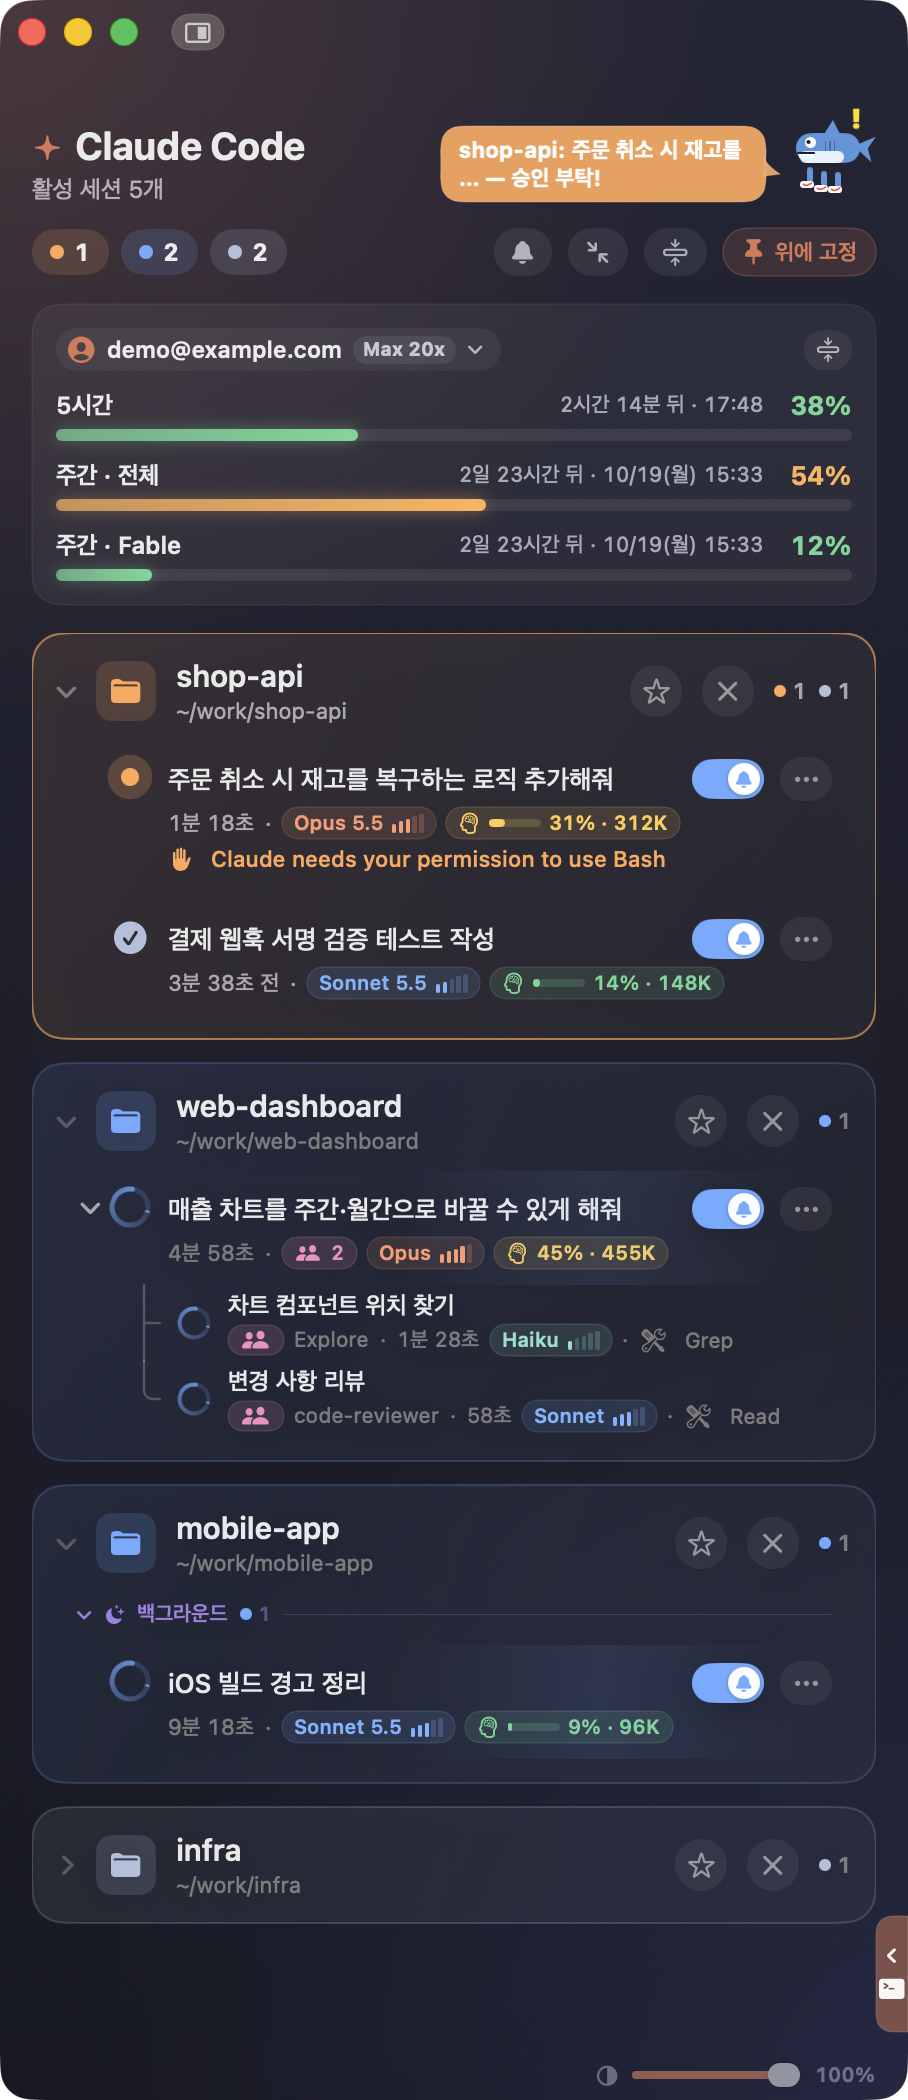
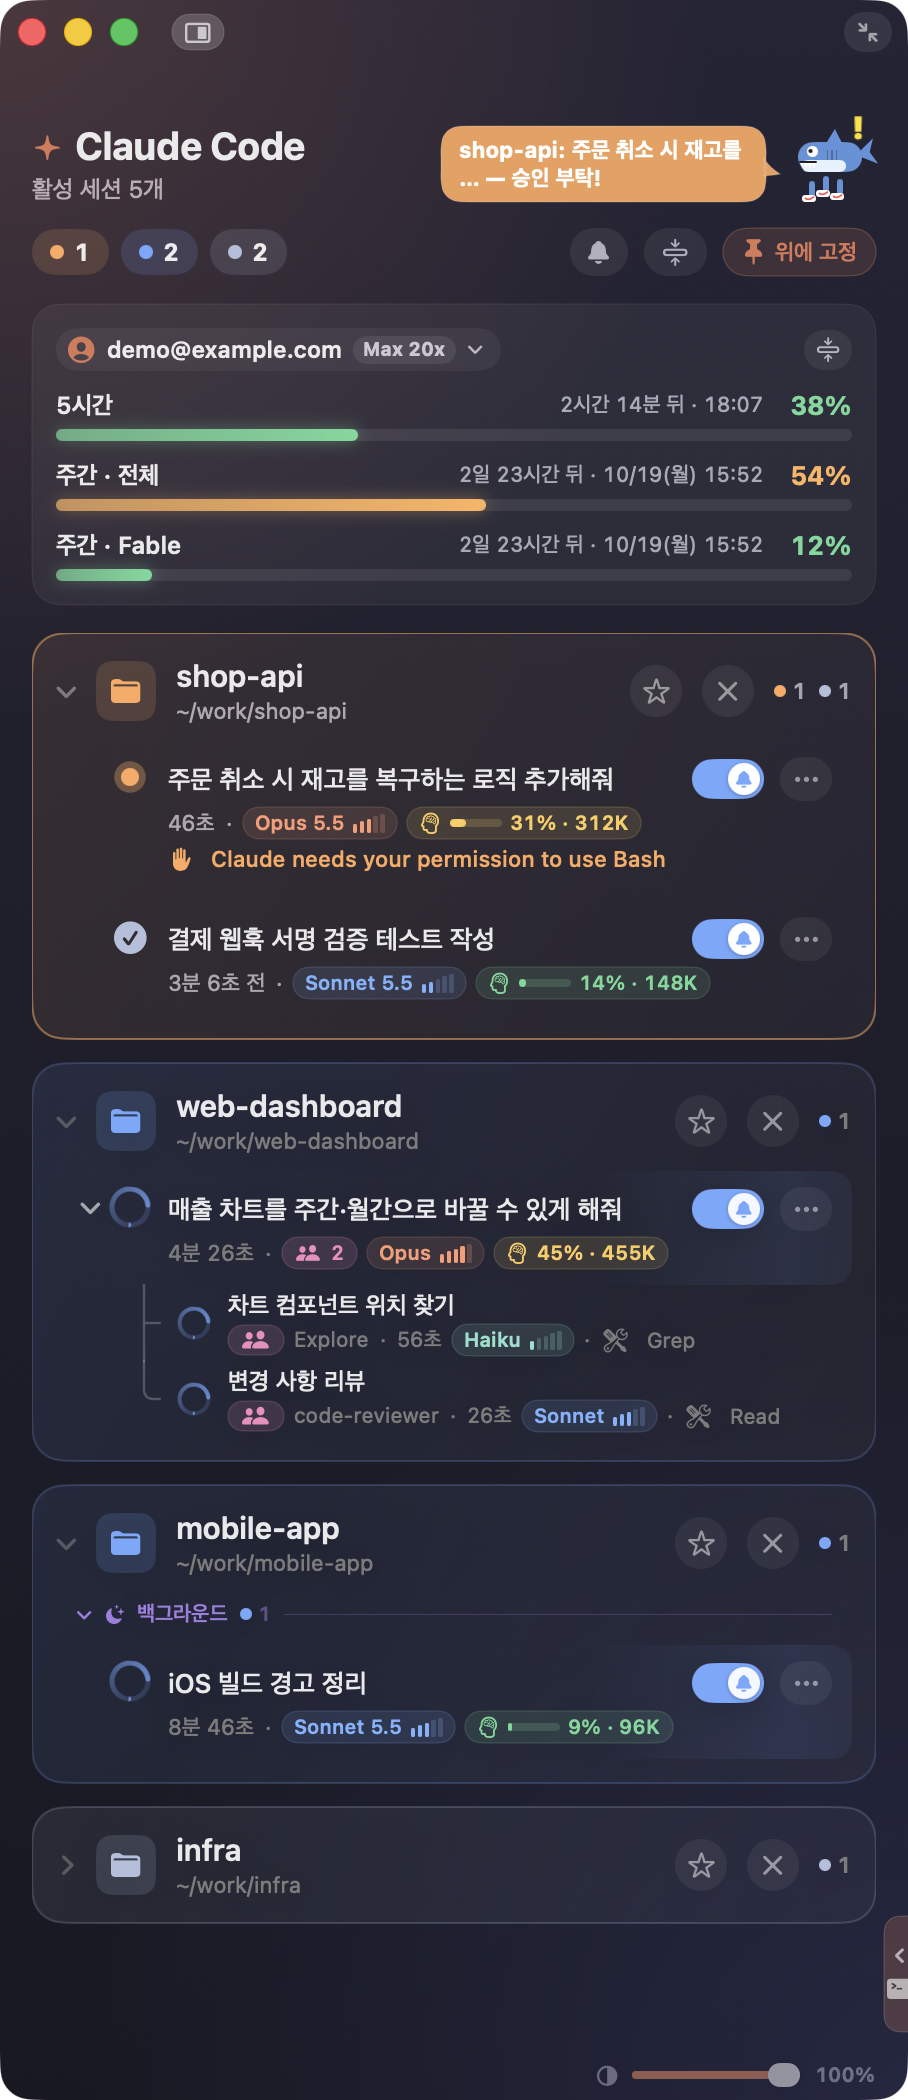
최대축소 단추를 제목 막대 오른쪽 위(미니의 ⤢ 자리)로 옮기기

diff --git a/ClaudeBoard.swift b/ClaudeBoard.swift
@@ -3528,7 +3528,6 @@ struct BoardView: View {
     @State private var tops = CardTopsBox()
     @State private var hiddenIds: [String] = []
     @State private var moreHover = false
-    @State private var miniHover = false
     // 창 크기 단계 — 중간에서는 카드를 접힌 한 줄로 보이고, 그 단계에서 눌러 펼친 카드만 따로 기억한다(저장한 접힘 상태는 그대로)
     @ObservedObject private var fit = BoardFit.shared
     @State private var mediumOpen: Set<String> = []
@@ -3614,18 +3613,6 @@ struct BoardView: View {
             }
             Spacer(minLength: 6)
             AllMuteButton(muted: store.allMuted) { store.setAllMuted(!store.allMuted) }
-            // 최대축소 — 창을 가장 작게 줄여 경로마다 한 줄로 본다. 미니의 제목 막대 ⤢ 로 원래 크기로 돌아온다
-            Button { enterMini(rows: store.groups.count) } label: {
-                Image(systemName: "arrow.down.right.and.arrow.up.left")
-                    .font(.system(size: 11, weight: .semibold))
-                    .foregroundStyle(miniHover ? .primary : .secondary)
-                    .padding(.horizontal, 8)
-                    .frame(minWidth: 28, minHeight: 24)
-                    .background(Capsule().fill(Color.white.opacity(miniHover ? 0.12 : 0.07)))
-            }
-            .buttonStyle(.plain)
-            .clickable($miniHover)
-            .help("최대축소 — 창을 가장 작게 줄이고 경로마다 한 줄로 봅니다")
             // 모두 접기 = 경로 카드를 다 접고 사용 한도를 간략(한 줄)으로, 모두 펼치기 = 다 펴고 상세로.
             // 중간 화면은 이미 카드가 접힌 한 줄·사용 한도가 한 줄이라 숨긴다
             let all = usageCompact && store.groups.allSatisfy { store.collapsed.contains($0.id) }
@@ -3970,7 +3957,6 @@ final class BoardFit: ObservableObject {
         guard t != tier else { return }
         tier = t
         UserDefaults.standard.set(t == .mini, forKey: "boardMini")   // 미니로 둔 채 끄면 다음에도 그 크기로 연다
-        miniTitlebar?.view.isHidden = t != .mini
     }
 }
 
@@ -3998,10 +3984,7 @@ func leaveMini() {
     snapRight()
 }
 
-// 미니에서만 보이는 제목 막대 오른쪽 — 상태별 세션 수와 원래 크기로 되돌리기 단추.
-// 오른쪽 액세서리는 컨트롤러의 isHidden 이 먹지 않아(2026-10-16 확인) 안의 뷰를 숨긴다
-var miniTitlebar: NSTitlebarAccessoryViewController?
-
+// 제목 막대 오른쪽 — 미니에서는 상태별 세션 수와 원래 크기로 되돌리기 단추, 전체·중간에서는 같은 자리에 최대축소 단추
 func addMiniTitlebar(_ store: Store) {
     let vc = NSTitlebarAccessoryViewController()
     let host = FirstClickHostingView(rootView: MiniTitleBar(store: store))
@@ -4009,13 +3992,12 @@ func addMiniTitlebar(_ store: Store) {
     vc.view = host
     vc.layoutAttribute = .trailing
     window.addTitlebarAccessoryViewController(vc)
-    host.isHidden = BoardFit.shared.tier != .mini
-    miniTitlebar = vc
 }
 
 struct MiniTitleBar: View {
     static let width: CGFloat = 176     // 미니 폭 300 에서 창 단추·붙이기 단추를 뺀 자리
     @ObservedObject var store: Store
+    @ObservedObject private var fit = BoardFit.shared
     @State private var hover = false
 
     // 상태별 세션 수 — 자리가 모자라면 글자를 빼고 수만
@@ -4040,11 +4022,15 @@ struct MiniTitleBar: View {
     }
 
     var body: some View {
+        let mini = fit.tier == .mini
         HStack(spacing: 5) {
             Spacer(minLength: 0)
-            ViewThatFits(in: .horizontal) { chips(labels: true); chips(labels: false) }
-            Button(action: leaveMini) {
-                Image(systemName: "arrow.up.left.and.arrow.down.right")
+            if mini {
+                ViewThatFits(in: .horizontal) { chips(labels: true); chips(labels: false) }
+            }
+            // 미니 = 원래 크기로, 전체·중간 = 최대축소(창을 가장 작게 줄여 경로마다 한 줄로 본다)
+            Button { if mini { leaveMini() } else { enterMini(rows: store.groups.count) } } label: {
+                Image(systemName: mini ? "arrow.up.left.and.arrow.down.right" : "arrow.down.right.and.arrow.up.left")
                     .font(.system(size: 10, weight: .bold))
                     .foregroundStyle(hover ? .primary : .secondary)
                     .frame(width: 24, height: 20)
@@ -4053,7 +4039,7 @@ struct MiniTitleBar: View {
             }
             .buttonStyle(.plain)
             .clickable($hover)
-            .help("원래 크기로 되돌리기")
+            .help(mini ? "원래 크기로 되돌리기" : "최대축소 — 창을 가장 작게 줄이고 경로마다 한 줄로 봅니다")
         }
         .padding(.trailing, 8)
         .frame(width: Self.width, height: 28)

diff --git a/CHANGELOG.md b/CHANGELOG.md
@@ -6,6 +6,7 @@
 
 ### 바뀜
 - 알림 패널 아래 줄에서 승인 대기 세션 수를 "대기" 대신 "승인 대기" 로 표시합니다. 쉬는 세션(대기)과 글자로도 구분됩니다.
+- 최대축소 단추(↘↖)를 알림 끄기 단추 옆에서 제목 막대 오른쪽 위로 옮겼습니다. 미니 화면의 ⤢ 와 같은 자리입니다.
 
 ## 2.8 — 2026-10-16
 
